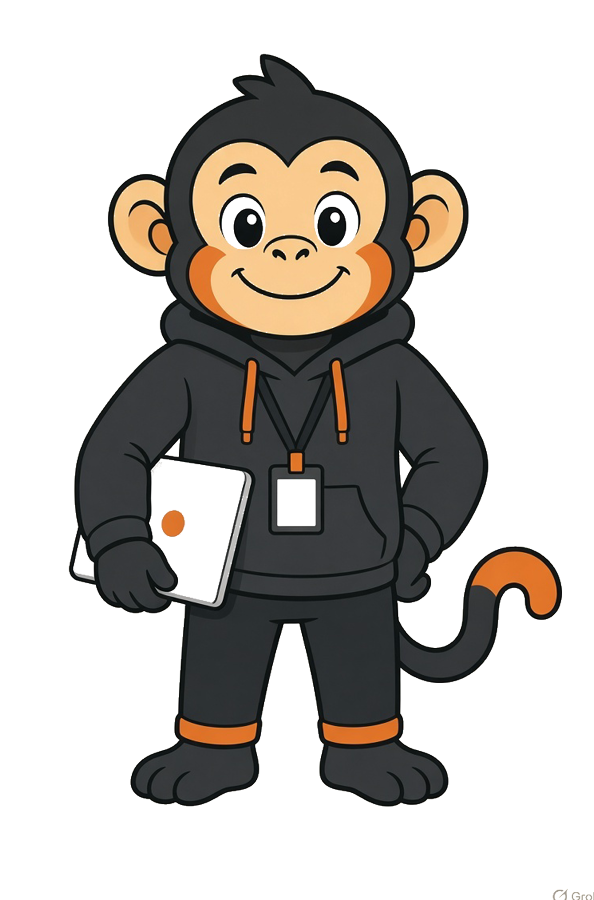
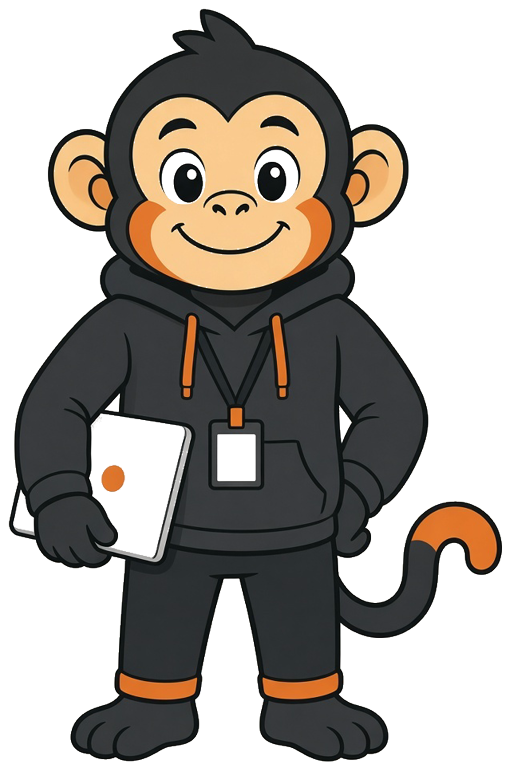
visual pass: fill the column, clean cover, captions that read like speech
Cover. The dashed placeholder boxes on the title card were copied from the
reference's cold open, but the title card is frame 0 and therefore the grid
cover, and at thumbnail size they read as broken empty UI on every post. The
cover is now the hook, an accent rule under it, and the mascot. Headlines use
balanced wrapping so a hook never leaves one word alone on its last line.

Mascot. The small grey smudge by its right foot in every frame was a leftover
of the Grok watermark, a few detached pixel islands in the bottom right corner
of the PNG. Cropped the image to the mascot's real bounds, which also grounds
it on the footer rule instead of floating above it.

Hero sizing. Each scene is now zoomed once at build time to the largest size
that fits its column: sparse cards and notes grow to 1.45x, dense ones shrink
instead of spilling. CSS zoom rather than a transform so text re-rasterises
sharp. Found a real bug on the way: showing a scene set display:block inline,
which overrode the flex rule meant to centre it, so every hero had been sitting
at the top of its column since the rebuild. The recorder also now waits for
the vendored fonts before booting, so no frame can be measured or drawn in a
fallback face.

Flow scenes had been overflowing their column (the last node touched the
footer). Tighter connectors let them fit at a readable size.

Captions. Cards were cut every four words, which produced 'When you change a'
[…]

diff --git a/factory/bg/explainer-spec.js b/factory/bg/explainer-spec.js
@@ -1,1 +1,1 @@
-window.SPEC = {"eyebrow":"POSTGRESQL INTERNALS","accent":"#c2410c","episode":"THE PROD MONKEY","handle":"","title":{"kicker":"POSTGRESQL INTERNALS","title":"Your Postgres table is silently drowning in dead rows"},"scenes":[{"type":"compare","headline":"Disk usage keeps climbing.","subhead":"Row counts stay flat while query","data":{"left":{"label":"Original State","sub":"Clean heap table","kind":"postgres"},"right":{"label":"Current State","sub":"Bloated disk footprint","kind":"disk"},"rows":[{"left":"4ms query time","right":"3s query time"},{"left":"Stable disk size","right":"Unbounded disk growth"},{"left":"Zero dead tuples","right":"Constant row churn"}]},"beat":0,"half":0,"of":2},{"type":"stat","headline":"Latency jumps 750x.","subhead":"The autovacuum worker is running, but","data":{"value":"3,000ms","label":"UPDATE LATENCY UNDER CHURN","tone":"bad"},"beat":0,"half":1,"of":2},{"type":"diff","headline":"Written in permanent pen.","subhead":"Postgres MVCC cannot overwrite an existing","data":{"title":"8KB Heap Page Layout","rows":[{"text":"ItemPointer (0,1) -> t_xmin: 1042","tone":"plain"},{"text":"- status = 'active' [OLD TUPLE]","tone":"del"},{"text":"+ status = 'active' [NEW TUPLE]","tone":"add"},{"text":"ItemPointer (0,2) -> t_xmin: 1043","tone":"plain"}]},"beat":1,"half":0,"of":2},{"type":"flow","headline":"Old versions remain intact.","subhead":"Every modification appends a fresh row","data":{"nodes":[{"label":"UPDATE query","sub":"Writes new tuple","kind":"postgres"},{"label":"Dead tuple","sub":"Crossed-out row","kind":"trash"},{"label":"Disk block","sub":"Page remains full","kind":"disk"}],"edge":"appends tuple","packet":true},"beat":1,"half":1,"of":2},{"type":"window","headline":"Dead rows crowd the page.","subhead":"Queries waste I/O scanning uncollected row","data":{"app":"psql","file":"orders_table.sql","lines":[{"text":"SELECT n_live_tup, n_dead_tup","tone":"plain"},{"text":"FROM pg_stat_user_tables;","tone":"plain"},{"text":"n_live_tup | n_dead_tup","tone":"dim"},{"text":"1000000 | 4520300","tone":"bad"}],"status":{"left":"pg_stat","right":"82% dead"}},"beat":2,"half":0,"of":2},{"type":"list","headline":"Buffer cache gets wasted.","subhead":"Dead tuples force extra page reads","data":{"title":"Cost of Table Bloat","items":[{"label":"Physical scans read garbage","tone":"bad"},{"label":"Shared buffers evict hot data","tone":"bad"},{"label":"Sequential scans multiply runtime","tone":"bad"}]},"beat":2,"half":1,"of":2},{"type":"card","headline":"The cleaner throttles itself.","subhead":"The autovacuum worker limits its own","data":{"kind":"postgres","title":"postgresql.conf","pill":"DEFAULTS","sub":"autovacuum_cost_limit = 200"},"beat":3,"half":0,"of":2},{"type":"flow","headline":"The cleaner falls behind.","subhead":"Cost limits force sleep cycles while","data":{"nodes":[{"label":"Cost limit hit","sub":"Accumulates page costs","kind":"gauge"},{"label":"Enforced sleep","sub":"autovacuum cost delay","kind":"timer"},{"label":"Uncleaned heap","sub":"Churn outpaces vacuum","kind":"disk"}],"edge":"throttles I/O","packet":true},"beat":3,"half":1,"of":2},{"type":"window","headline":"Every page costs points.","subhead":"Postgres calculates vacuum I/O using cost","data":{"app":"psql","file":"postgresql.conf","lines":[{"text":"vacuum_cost_page_hit = 1","tone":"good"},{"text":"vacuum_cost_page_miss = 20","tone":"bad"},{"text":"vacuum_cost_page_dirty = 20","tone":"bad"}],"status":{"left":"cost budget","right":"psql"}},"beat":4,"half":0,"of":2},{"type":"compare","headline":"Disk access hits hardest.","subhead":"Cold page reads and dirty page","data":{"left":{"label":"Buffer Hit","sub":"Shared memory","kind":"memory"},"right":{"label":"Disk Miss","sub":"Storage read","kind":"disk"},"rows":[{"left":"1 point cost","right":"20 points cost"},{"left":"Reads cached memory","right":"Hits physical storage"},{"left":"High throughput","right":"Rapid budget drain"}]},"beat":4,"half":1,"of":2},{"type":"stat","headline":"Sleep pauses freeze progress.","subhead":"Default cost limits force frequent throttle","data":{"value":"200 PTS","label":"AUTOVACUUM COST LIMIT","tone":"bad"},"beat":5,"half":0,"of":2},{"type":"flow","headline":"Workers yield to writes.","subhead":"The mandatory delay lets incoming traffic","data":{"nodes":[{"label":"Budget Spent","sub":"200 points hit","kind":"gauge"},{"label":"Worker Sleep","sub":"2ms pause","kind":"clock"},{"label":"Writes Append","sub":"Churn surges","kind":"postgres"}],"edge":"stalls work","packet":true},"beat":5,"half":1,"of":2},{"type":"card","headline":"The file keeps growing.","subhead":"Dead space cannot be reused before","data":{"kind":"disk","title":"base/16384/26738","pill":"bloat","sub":"Underlying heap file expands continuously"},"beat":6,"half":0,"of":2},{"type":"window","headline":"Disk space balloons rapidly.","subhead":"Both heap relation forks and index","data":{"app":"Terminal","file":"~","lines":[{"text":"SELECT pg_size_pretty(","tone":"plain"},{"text":"pg_total_relation_size('events')","tone":"plain"},{"text":");","tone":"plain"},{"text":"pg_size_pretty: 184 GB","tone":"bad"}],"status":{"left":"relsize","right":"bloating"}},"beat":6,"half":1,"of":2},{"type":"window","headline":"One transaction blocks everything.","subhead":"Active transactions pin the cleanup horizon","data":{"app":"psql","file":"pg_stat_activity","lines":[{"text":"SELECT pid, state, query","tone":"plain"},{"text":"FROM pg_stat_activity","tone":"plain"},{"text":"WHERE state != 'idle';","tone":"dim"},{"text":"idle in transaction","tone":"bad"}],"status":{"left":"xmin horizon","right":"blocked"}},"beat":7,"half":0,"of":2},{"type":"stat","headline":"The cleanup horizon freezes.","subhead":"No dead tuples past the oldest","data":{"value":"0 BYTES","label":"RECLAIMABLE DEAD TUPLES","tone":"bad"},"beat":7,"half":1,"of":2},{"type":"window","headline":"Unleash the worker.","subhead":"Tune the high-churn relation directly.","data":{"app":"psql","file":"postgres@prod:db","lines":[{"text":"ALTER TABLE orders SET (","tone":"plain"},{"text":"autovacuum_vacuum_cost_limit","tone":"plain"},{"text":"= 2000,","tone":"good"},{"text":"autovacuum_vacuum_cost_delay","tone":"plain"},{"text":"= 0","tone":"good"},{"text":");","tone":"plain"}],"status":{"left":"ALTER TABLE","right":"0.41ms"}},"beat":8,"half":0,"of":2},{"type":"stat","headline":"Full disk speed.","subhead":"Autovacuum finally clears dead rows.","data":{"value":"0ms","label":"AUTOVACUUM COST DELAY","tone":"good"},"beat":8,"half":1,"of":2},{"type":"note","beat":9,"half":0,"of":1,"headline":"Save this before your next","subhead":"","data":{"lead":"Save this before your next storage alert","body":""}}],"starts":[3.85,9.4975,16.400000000000002,21.78875,28.375,34.135,41.175,46.92375,53.949999999999996,59.091249999999995,65.375,70.64,77.075,82.35125000000001,88.8,94.64999999999999,101.8,107.3125,114.05],"titleUntil":3.85};
+window.SPEC = {"eyebrow":"NETWORKING","accent":"#c2410c","episode":"THE PROD MONKEY","handle":"","title":{"kicker":"NETWORKING","title":"Your random five-oh-twos are a timer race."},"scenes":[{"type":"stat","headline":"Application logs show nothing.","subhead":"The gateway drops the request first.","data":{"value":"502","label":"BAD GATEWAY ON DASHBOARD","tone":"bad"},"beat":0,"half":0,"of":2},{"type":"window","headline":"Silent inside the app.","subhead":"Zero stack traces reach stdout.","data":{"app":"Terminal","file":"app.log","lines":[{"text":"GET /api/v1/checkout 200 14ms","tone":"plain"},{"text":"GET /api/v1/cart 200 8ms","tone":"plain"},{"text":"GET /api/v1/profile 200 12ms","tone":"plain"},{"text":"# no error or exception logged","tone":"dim"}],"status":{"left":"app.log","right":"0 errors"}},"beat":0,"half":1,"of":2},{"type":"note","headline":"Both sides hang up.","subhead":"A race condition on dead wires.","data":{"lead":"Two callers hang up together.","body":"One starts speaking right as the line clicks dead. The packet vanishes."},"beat":1,"half":0,"of":2},{"type":"compare","headline":"The message vanishes.","subhead":"Packets collide with a closure.","data":{"left":{"label":"Client Side","sub":"sends request","kind":"browser"},"right":{"label":"Server Side","sub":"sends FIN packet","kind":"server"},"rows":[{"left":"transmits payload","right":"closes connection"},{"left":"expects answer","right":"drops the frame"}]},"beat":1,"half":1,"of":2},{"type":"flow","headline":"Reusing the network tunnel.","subhead":"Persistent TCP across requests.","data":{"nodes":[{"label":"Load Balancer","sub":"edge proxy","kind":"cloud"},{"label":"Nginx","sub":"origin server","kind":"nginx"}],"edge":"reused keepalive","packet":true},"beat":2,"half":0,"of":2},{"type":"list","headline":"Avoid expensive handshakes.","subhead":"What pooled connections save.","data":{"title":"Keepalive Benefits","items":[{"label":"Skip TCP three-way handshake","tone":"good"},{"label":"Bypass TLS negotiation overhead","tone":"good"},{"label":"Lower round-trip latency","tone":"good"}]},"beat":2,"half":1,"of":2},{"type":"card","headline":"Both sides count down.","subhead":"Idle timers clean up memory.","data":{"kind":"timer","title":"keepalive_timeout","pill":"65s default","sub":"Closes idle socket after expiration"},"beat":3,"half":0,"of":2},{"type":"diff","headline":"Competing idle limits.","subhead":"Mismatched timeouts trigger races.","data":{"title":"nginx.conf vs upstream","rows":[{"text":"# upstream alb timeout: 60s","tone":"plain"},{"text":"keepalive_timeout 60s;","tone":"del"},{"text":"keepalive_timeout 65s;","tone":"add"}]},"beat":3,"half":1,"of":2},{"type":"compare","headline":"Sixty seconds on both.","subhead":"Default idle timeouts match across tiers.","data":{"left":{"label":"AWS ALB","sub":"Idle timeout","kind":"cloud"},"right":{"label":"nginx","sub":"Keepalive timeout","kind":"nginx"},"rows":[{"left":"idle_timeout.timeout_seconds","right":"keepalive_timeout"},{"left":"60 seconds","right":"65s default -> 60s"},{"left":"connection reuse pool","right":"upstream pool socket"}]},"beat":4,"half":0,"of":2},{"type":"window","headline":"Both clocks start ticking.","subhead":"The timeout timers run concurrently.","data":{"app":"Terminal","file":"/etc/nginx/nginx.conf","lines":[{"text":"http {","tone":"plain"},{"text":"keepalive_timeout 60;","tone":"bad"},{"text":"keepalive_requests 1000;","tone":"plain"},{"text":"}","tone":"plain"}],"status":{"left":"nginx.conf","right":"synced: 60s"}},"beat":4,"half":1,"of":2},{"type":"stat","headline":"Nginx hangs up first.","subhead":"Timeout expires at the edge.","data":{"value":"60.000s","label":"NGINX CLOSES IDLE SOCKET","tone":"bad"},"beat":5,"half":0,"of":2},{"type":"flow","headline":"It sends a FIN.","subhead":"A clean tear down initiated.","data":{"nodes":[{"label":"nginx","sub":"Socket owner","kind":"nginx"},{"label":"AWS ALB","sub":"Load balancer","kind":"cloud"}],"edge":"TCP FIN","packet":true},"beat":5,"half":1,"of":2},{"type":"flow","headline":"A request gets dispatched.","subhead":"New traffic hits the pool.","data":{"nodes":[{"label":"User","sub":"Incoming client","kind":"browser"},{"label":"AWS ALB","sub":"Target pool","kind":"cloud"}],"edge":"GET /checkout","packet":true},"beat":6,"half":0,"of":2},{"type":"window","headline":"The socket looks alive.","subhead":"The ALB pool marks it reusable.","data":{"app":"Terminal","file":"aws-alb-access.log","lines":[{"text":"h2 2024-03-24T12:00:00.001Z app/alb","tone":"plain"},{"text":"selected backend 10.0.1.4:80","tone":"plain"},{"text":"reusing cached keepalive socket","tone":"good"},{"text":"dispatching buffered request...","tone":"plain"}],"status":{"left":"ALB Pool","right":"Socket reused"}},"beat":6,"half":1,"of":2},{"type":"flow","headline":"Packets cross in flight.","subhead":"Race condition on the wire.","data":{"nodes":[{"label":"AWS ALB","sub":"Sending HTTP payload","kind":"cloud"},{"label":"Wire","sub":"Transit collision","kind":"network"},{"label":"nginx","sub":"Sending FIN packet","kind":"nginx"}],"edge":"HTTP GET <->","packet":true},"beat":7,"half":0,"of":2},{"type":"stat","headline":"Nginx refuses the request.","subhead":"A reset closes the connection.","data":{"value":"TCP RST","label":"CONNECTION RESET BY PEER","tone":"bad"},"beat":7,"half":1,"of":2},{"type":"flow","headline":"The kernel resets it.","subhead":"The closed socket receives inbound data.","data":{"nodes":[{"label":"Load Balancer","sub":"sends HTTP payload","kind":"cloud"},{"label":"Linux Kernel","sub":"drops to closed socket","kind":"linux"}],"edge":"TCP RST sent","packet":true},"beat":8,"half":0,"of":2},{"type":"window","headline":"The socket is dead.","subhead":"Kernel sends immediate reset packet.","data":{"app":"Terminal","file":"tcpdump -nn -i eth0 port 80","lines":[{"text":"IP lb.44120 > web.80: Flags [P.]","tone":"plain"},{"text":"IP web.80 > lb.44120: Flags [R]","tone":"bad"},{"text":"reset 0 win 0 length 0","tone":"dim"}],"status":{"left":"tcpdump","right":"captured 2 pkts"}},"beat":8,"half":1,"of":2},{"type":"card","headline":"Retrying is not safe.","subhead":"The request was already dispatched.","data":{"kind":"request","title":"POST /v1/payments","pill":"NON-IDEMPOTENT","sub":"payload transmitted before RST returned"},"beat":9,"half":0,"of":2},{"type":"compare","headline":"Idempotency forbids replay.","subhead":"State mutation might have started.","data":{"left":{"label":"GET request","sub":"safe method","kind":"refresh"},"right":{"label":"POST payload","sub":"state mutating","kind":"alert"},"rows":[{"left":"Can retry safely","right":"Cannot assume unread"},{"left":"No side effects","right":"Risk of double charge"},{"left":"Proxy replays","right":"Immediate abort"}]},"beat":9,"half":1,"of":2},{"type":"stat","headline":"Instant five-oh-two.","subhead":"Load balancer returns fatal error.","data":{"value":"502","label":"BAD GATEWAY TO CLIENT","tone":"bad"},"beat":10,"half":0,"of":2},{"type":"flow","headline":"App code never ran.","subhead":"The server never processed it.","data":{"nodes":[{"label":"Client","sub":"receives 502","kind":"browser"},{"label":"Load Balancer","sub":"fails request","kind":"cloud"},{"label":"Node Worker","sub":"0 requests seen","kind":"nodejs"}],"edge":"aborted in flight","packet":false},"beat":10,"half":1,"of":2},{"type":"list","headline":"Only strikes when quiet.","subhead":"Why the bug evades tests.","data":{"title":"Failure Conditions","items":[{"label":"High load keeps sockets hot","tone":"good"},{"label":"Idle gap hits timeout","tone":"bad"},{"label":"Spiky traffic races RST","tone":"bad"}]},"beat":11,"half":0,"of":2},{"type":"stat","headline":"Idle sockets race.","subhead":"The timeout triggers between spikes.","data":{"value":"IDLE RACE","label":"TRIGGERED AT LOW TRAFFIC","tone":"plain"},"beat":11,"half":1,"of":2},{"type":"diff","headline":"Give Nginx extra seconds.","subhead":"Set upstream timeout higher than downstream.","data":{"title":"/etc/nginx/nginx.conf","rows":[{"text":"http {","tone":"plain"},{"text":"keepalive_timeout 60s;","tone":"del"},{"text":"keepalive_timeout 65s;","tone":"add"},{"text":"}","tone":"plain"}]},"beat":12,"half":0,"of":2},{"type":"stat","headline":"The race disappears.","subhead":"Upstream closes only after LB does.","data":{"value":"65s","label":"UPSTREAM KEEPALIVE TIMEOUT","tone":"good"},"beat":12,"half":1,"of":2},{"type":"note","beat":13,"half":0,"of":1,"headline":"Save this for your next mystery outage.","subhead":"","data":{"lead":"","body":""}}],"starts":[2.875,8.23,14.775,19.05,24.275,29.776249999999997,36.5,40.62875,45.675,50.94,57.375,61.8975,67.425,72.09375,77.8,81.96249999999999,87.05,91.40375,96.725,100.97749999999999,106.175,110.23625,115.2,119.17125,124.025,129.155,135.425],"titleUntil":2.875};

diff --git a/factory/bg/explainer.html b/factory/bg/explainer.html
@@ -50,7 +50,7 @@
   }
   #headline {
     margin-top: 30px; font-size: 76px; line-height: 1.02; letter-spacing: -.03em;
-    font-weight: 800; max-width: 940px;
+    font-weight: 800; max-width: 940px; text-wrap: balance;
   }
   #subhead {
     margin-top: 20px; min-height: 30px;
@@ -93,12 +93,12 @@
   .el { opacity: 0; will-change: transform, opacity; }
 
   /* flow */
-  .flow { display: flex; flex-direction: column; gap: 26px; align-items: stretch; }
-  .fnode { display: flex; align-items: center; gap: 22px; padding: 24px 28px; }
+  .flow { display: flex; flex-direction: column; gap: 12px; align-items: stretch; }
+  .fnode { display: flex; align-items: center; gap: 22px; padding: 20px 28px; }
   .fnode .ico { width: 54px; height: 54px; flex: 0 0 54px; }
   .fnode .lab { font-size: 34px; font-weight: 700; letter-spacing: -.01em; }
   .fnode .sub { font-size: 23px; color: var(--mute); margin-top: 4px; }
-  .wire { position: relative; height: 54px; }
+  .wire { position: relative; height: 44px; }
   .wire .line { position: absolute; left: 50%; top: 0; width: 3px; height: 100%; background: var(--hair); transform: translateX(-50%); }
   .wire .lit { position: absolute; left: 50%; top: 0; width: 3px; height: 0; background: var(--accent); transform: translateX(-50%); }
   /* a document travelling the wire, not an abstract dot: the reference uses a
@@ -113,7 +113,7 @@
   }
 
   /* compare */
-  .cmp { display: flex; flex-direction: column; height: 100%; }
+  .cmp { display: flex; flex-direction: column; }
   .cmptop { display: flex; align-items: center; justify-content: space-between; gap: 18px; }
   .cmpside { flex: 1; text-align: center; }
   .cmpside .ico { width: 90px; height: 90px; margin: 0 auto 16px; }
@@ -188,13 +188,15 @@
   #title .big {
     position: absolute; left: 70px; top: 520px; width: 940px;
     font-size: 104px; font-weight: 800; line-height: 1.0; letter-spacing: -.035em;
-    text-align: center;
+    text-align: center; text-wrap: balance;
   }
-  #title .ghosts { position: absolute; left: 340px; top: 900px; width: 400px; }
-  #title .ghost {
-    height: 96px; border: 3px dashed #cfc9be; border-radius: 22px; margin-bottom: 26px;
-  }
-  #title .ghost:nth-child(2) { border-radius: 999px; }
+  /* The title card is frame 0, which makes it the profile-grid cover. The
+     dashed placeholder boxes borrowed from the reference read as broken empty
+     UI at thumbnail size, so the cover is headline, accent rule and mascot. */
+  #title .rule { position: absolute; left: 480px; width: 120px; height: 10px;
+    border-radius: 5px; background: var(--accent); }
+  #title .tmascot { position: absolute; left: 50%; transform: translateX(-50%);
+    top: 1010px; height: 360px; }
 </style>
 
 <div id="grid"></div>
@@ -212,7 +214,8 @@
 <div id="title">
   <div class="kick"></div>
   <div class="big"></div>
-  <div class="ghosts"><div class="ghost"></div><div class="ghost"></div></div>
+  <div class="rule"></div>
+  <img class="tmascot" src="../../assets/brand/mascot-cut.png" alt="" />
 </div>
 
 <script src="_harness.js"></script>
@@ -370,6 +373,32 @@
   });
 
   /**
+   * Sparse scenes used about half their column and dense ones could spill out
+   * of it. Each scene is zoomed once, at build time, to the largest size that
+   * still fits. CSS zoom rather than a transform: zoom re-lays out and
+   * re-rasterises the text, where a scaled layer renders soft. Stat scenes are
+   * left alone, they are already sized to be the loudest thing on screen.
+   */
+  const FIT = { flow: 1, compare: 1, window: 1, card: 1, list: 1, diff: 1, note: 1 };
+  function fitScene(wrap, type) {
+    const child = wrap.firstElementChild;
+    if (!child || !FIT[type]) return 1;
+    const prev = wrap.style.display;
+    wrap.style.display = 'flex';
+    const maxH = hero.clientHeight * 0.94;
+    const spills = () => [child, ...child.querySelectorAll('.win, .diff, .ln, .drow, .fnode, .card1, .cmprow, .lrow')]
+      .some((e) => e.scrollWidth > e.clientWidth + 1);
+    let z = 1.45;
+    for (; z > 0.7; z -= 0.05) {
+      child.style.zoom = z.toFixed(2);
+      if (child.getBoundingClientRect().height <= maxH && !spills()) break;
+    }
+    child.style.zoom = z.toFixed(2);
+    wrap.style.display = prev;
+    return z;
+  }
+
+  /**
    * Count-ups only work on a value that really is a number, so the leading
    * numeric group is animated and everything around it is preserved verbatim:
    * "40ms" counts, "$0" counts, "ONE LOCK" is left alone.
@@ -390,7 +419,7 @@
   const clamp01 = (t) => (t < 0 ? 0 : t > 1 ? 1 : t);
 
   let shown = -2;
-  window.mmBoot({
+  const MMDEF = {
     frame(i) {
       const tSec = i / FPS;
 
@@ -408,9 +437,11 @@
         big.style.opacity = 1;
         big.style.transform = `translateY(${(1 - p) * 12}px)`;
         document.querySelector('#title .kick').style.opacity = 1;
-        document.querySelectorAll('#title .ghost').forEach((g, k) => {
-          g.style.opacity = 0.5 + 0.4 * clamp01((tSec - 0.15 - k * 0.15) / 0.5);
-        });
+        // the rule sits under the headline's real bottom edge, which depends on
+        // how many lines the hook wrapped to
+        const rule = document.querySelector('#title .rule');
+        rule.style.top = Math.round(big.getBoundingClientRect().bottom + 46) + 'px';
+        rule.style.transform = 'none';
         return;
       }
 
@@ -424,7 +455,9 @@
 
       if (k !== shown) {
         if (built[shown]) built[shown].wrap.style.display = 'none';
-        built[k].wrap.style.display = 'block';
+        // 'flex', not 'block': an inline block here silently overrode the
+        // centring rule on #hero > div, so every hero sat at the top
+        built[k].wrap.style.display = 'flex';
         const h = sc.headline || '';
         $('headline').textContent = h;
         // one line wherever possible: a two-line headline pushes nothing, but
@@ -516,6 +549,15 @@
       // ---- progress
       $('barfill').style.width = (clamp01(tSec / (ends[TOTAL - 1] || 1)) * 100).toFixed(2) + '%';
     },
-  });
+  };
+
+  const faces = ['400 20px Inter', '600 20px Inter', '800 20px Inter',
+    '400 20px "JetBrains Mono"', '500 20px "JetBrains Mono"', '700 20px "JetBrains Mono"'];
+  Promise.all(faces.map((f) => document.fonts.load(f).catch(() => null)))
+    .then(() => document.fonts.ready)
+    .then(() => {
+      window.MM_FIT = built.map((b, i) => +fitScene(b.wrap, scenes[i].type).toFixed(2));
+      window.mmBoot(MMDEF);
+    });
 })();
 </script>
